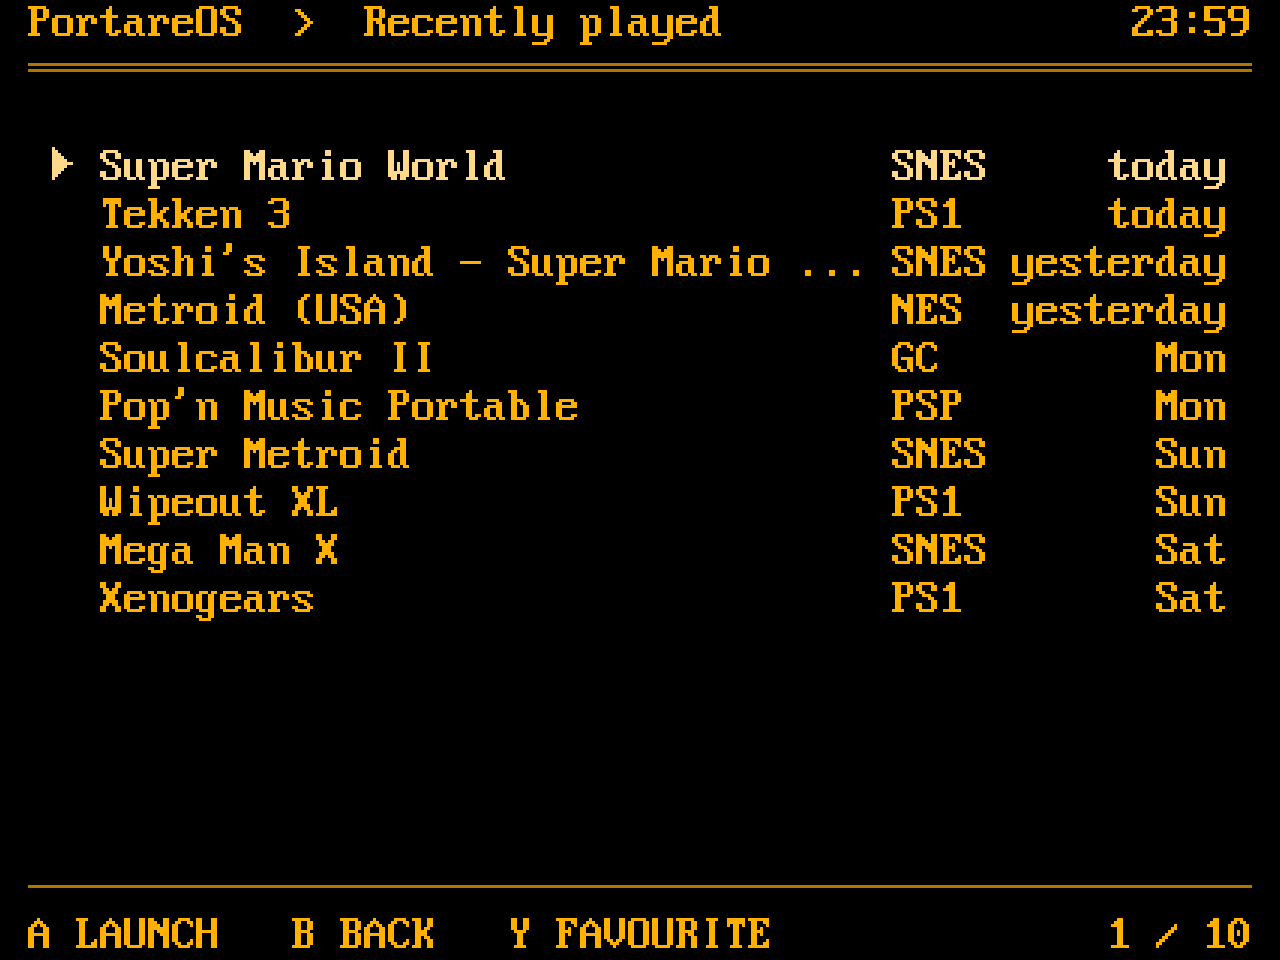
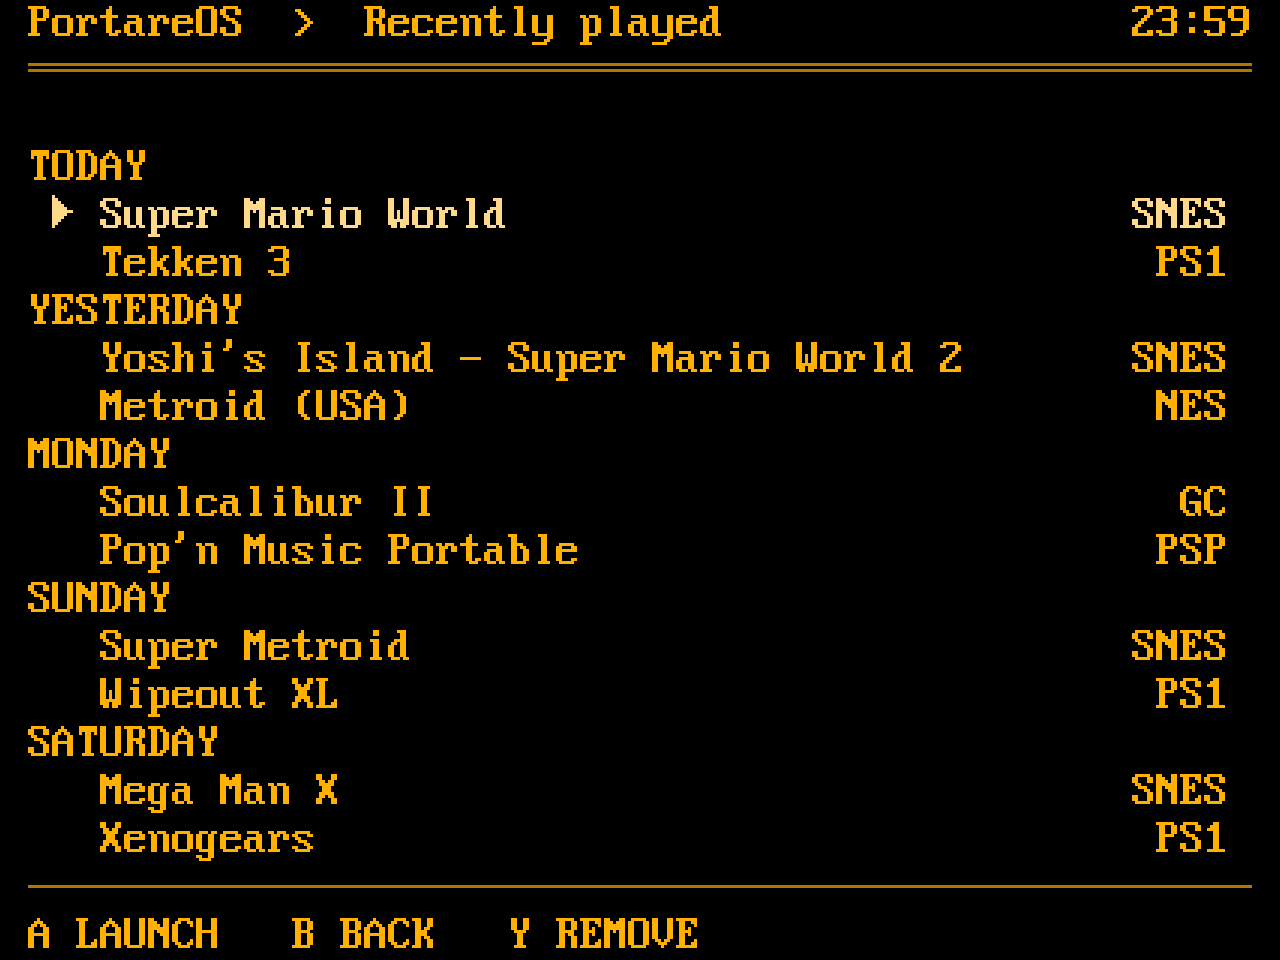
mockup: Recently played grouped under the day
TODAY, YESTERDAY, then the weekday, as headings; a row is the title
and a short system name, no third column. Ten games under five days
fill the panel, so the footer carries no position.

diff --git a/tools/mockup.py b/tools/mockup.py
@@ -278,21 +278,26 @@ games_long = games_screen("Teenage Mutant Ninja Turtles IV - Turtles in Time (US
 games_fav = games_screen("Super Mario World (USA)")
 
 # Ten launches, newest first, written when runemu exits with status 0,
-# so a game that never started is not in it. Short system names and the
-# day: today, yesterday, then the weekday.
-RECENT = [("Super Mario World", "SNES", "today"), ("Tekken 3", "PS1", "today"),
-          ("Yoshi's Island - Super Mario World 2", "SNES", "yesterday"),
-          ("Metroid (USA)", "NES", "yesterday"), ("Soulcalibur II", "GC", "Mon"),
-          ("Pop'n Music Portable", "PSP", "Mon"), ("Super Metroid", "SNES", "Sun"),
-          ("Wipeout XL", "PS1", "Sun"), ("Mega Man X", "SNES", "Sat"),
-          ("Xenogears", "PS1", "Sat")]
+# so a game that never started is not in it. Grouped under the day in
+# small caps: TODAY, YESTERDAY, then the weekday for the last week and
+# the date beyond it. A row is the title and a short system name; the
+# day is the heading, not a third column. Ten games under five days fill
+# the panel exactly.
+RECENT = [("TODAY", [("Super Mario World", "SNES"), ("Tekken 3", "PS1")]),
+          ("YESTERDAY", [("Yoshi's Island - Super Mario World 2", "SNES"),
+                         ("Metroid (USA)", "NES")]),
+          ("MONDAY", [("Soulcalibur II", "GC"), ("Pop'n Music Portable", "PSP")]),
+          ("SUNDAY", [("Super Metroid", "SNES"), ("Wipeout XL", "PS1")]),
+          ("SATURDAY", [("Mega Man X", "SNES"), ("Xenogears", "PS1")])]
 def across(sel, title, right):
     w = COLS - 4 - len(right) - 3
     return item(sel, title if len(title) <= w else title[:w - 3] + "...", right)
 recent = [crumb("Recently played"), RULE, ""]
-recent += [across(i == 0, t, "%-5s%9s" % (sy, d)) for i, (t, sy, d) in enumerate(RECENT)]
+for day, games_of_day in RECENT:
+    recent.append(" " + day)
+    recent += [across(t == "Super Mario World", t, sy) for t, sy in games_of_day]
 recent += [""] * (ROWS - 2 - len(recent))
-recent += [THIN, games_footer(False, 1, 10)]
+recent += [THIN, row(" A LAUNCH   B BACK   Y REMOVE", "")]
 
 # One file, a game path per line, pruned of paths that no longer exist
 # when it is read. Y toggles the selected game wherever a game is listed;

diff --git a/docs/lists.md b/docs/lists.md
@@ -25,12 +25,15 @@ list; which core runs a system is not the player's concern.
 
 ## Recently played
 
-Ten games, newest first. A row carries a short system name and the day:
-`today`, `yesterday`, then the weekday. Short names (PS1, PS2, PSP, N64,
-GBA, GC, DC, SNES, NES) in the cross-system views only; the Systems
-screen keeps the full names. An entry is written when `runemu` exits
-with status 0, so a game that never started is not in the list, and a
-game quit with Home + Start is.
+Ten games, newest first, grouped under the day as a heading: `TODAY`,
+`YESTERDAY`, then the weekday for the last week and the date beyond it.
+A row is the title and a short system name; the day is not a third
+column. Short names (PS1, PS2, PSP, N64, GBA, GC, DC, SNES, NES) in the
+cross-system views only; the Systems screen keeps the full names. The
+footer is the favourite cue as everywhere, and carries no position: ten
+games under five days fill the panel, there is nothing to scroll. An
+entry is written when `runemu` exits with status 0, so a game that never
+started is not in the list, and a game quit with Home + Start is.
 
 ![Recently played](images/recently-played.png)
 
